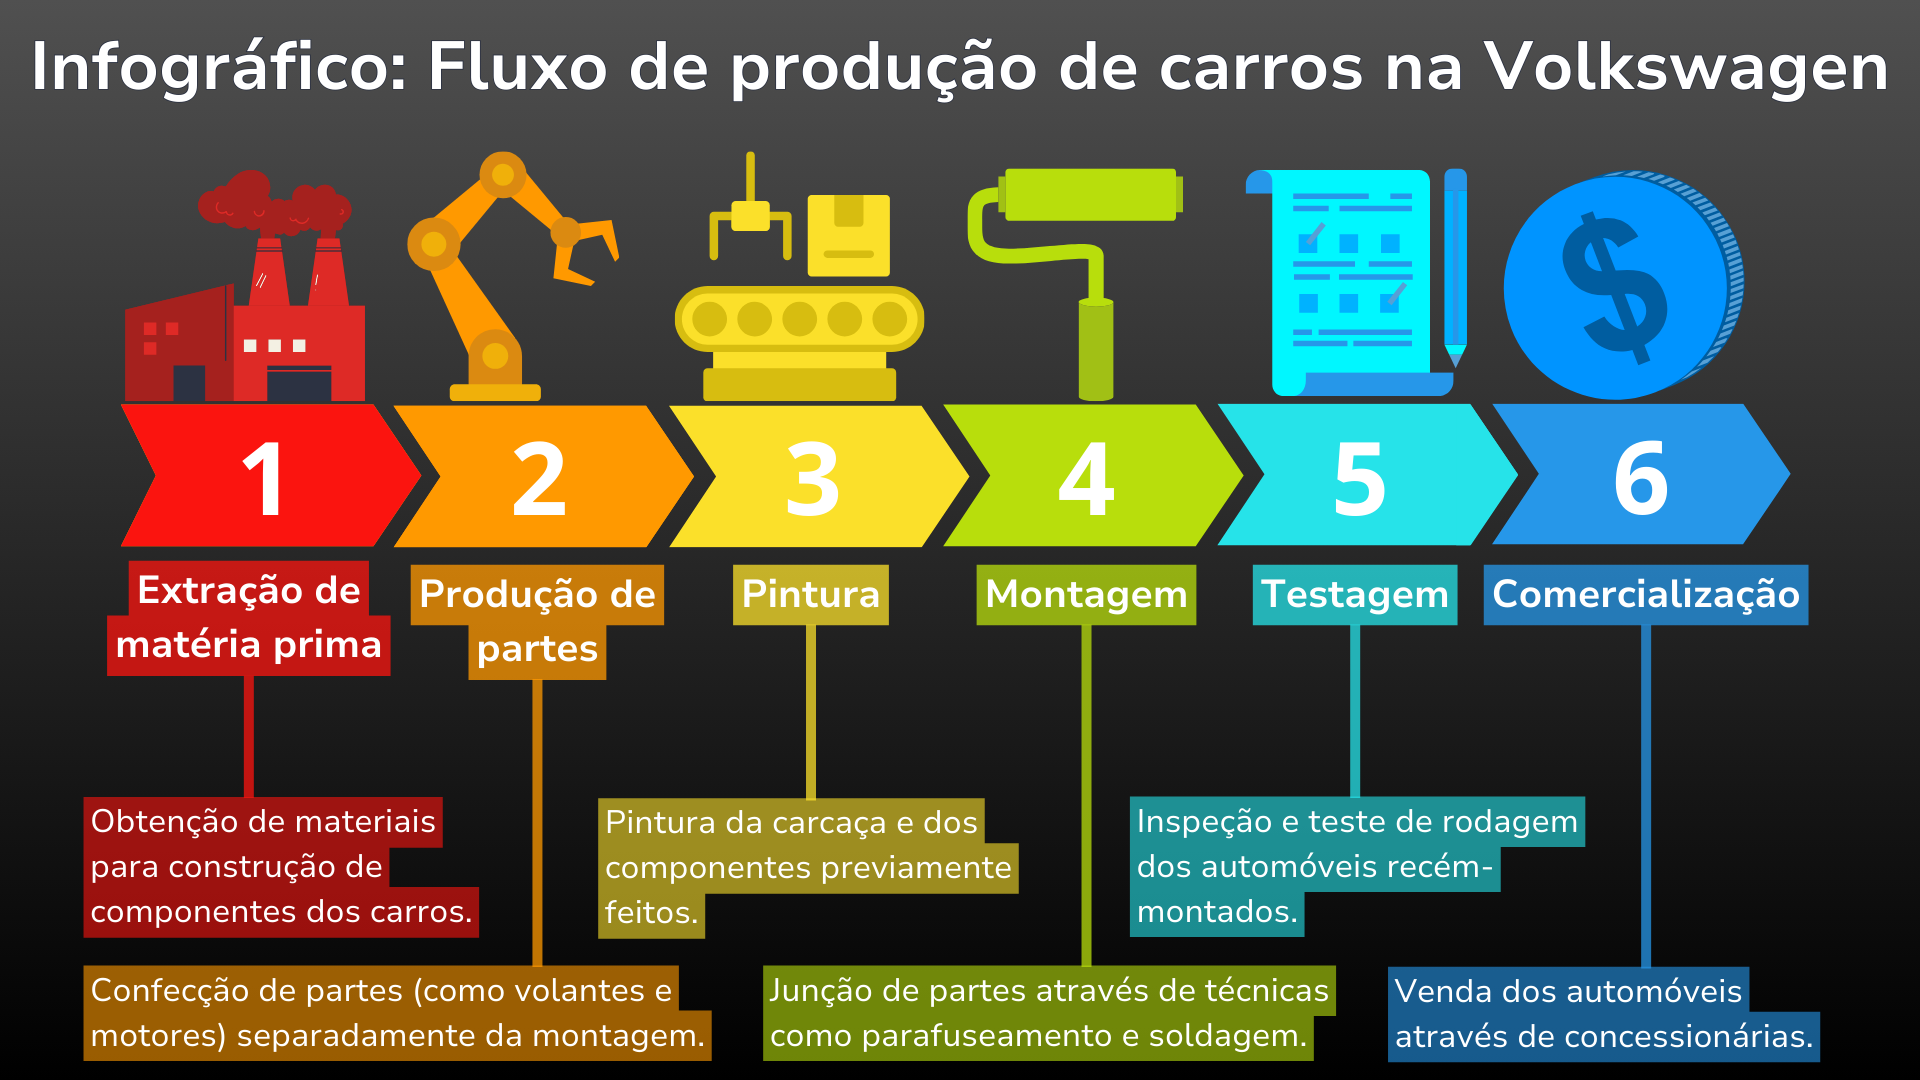
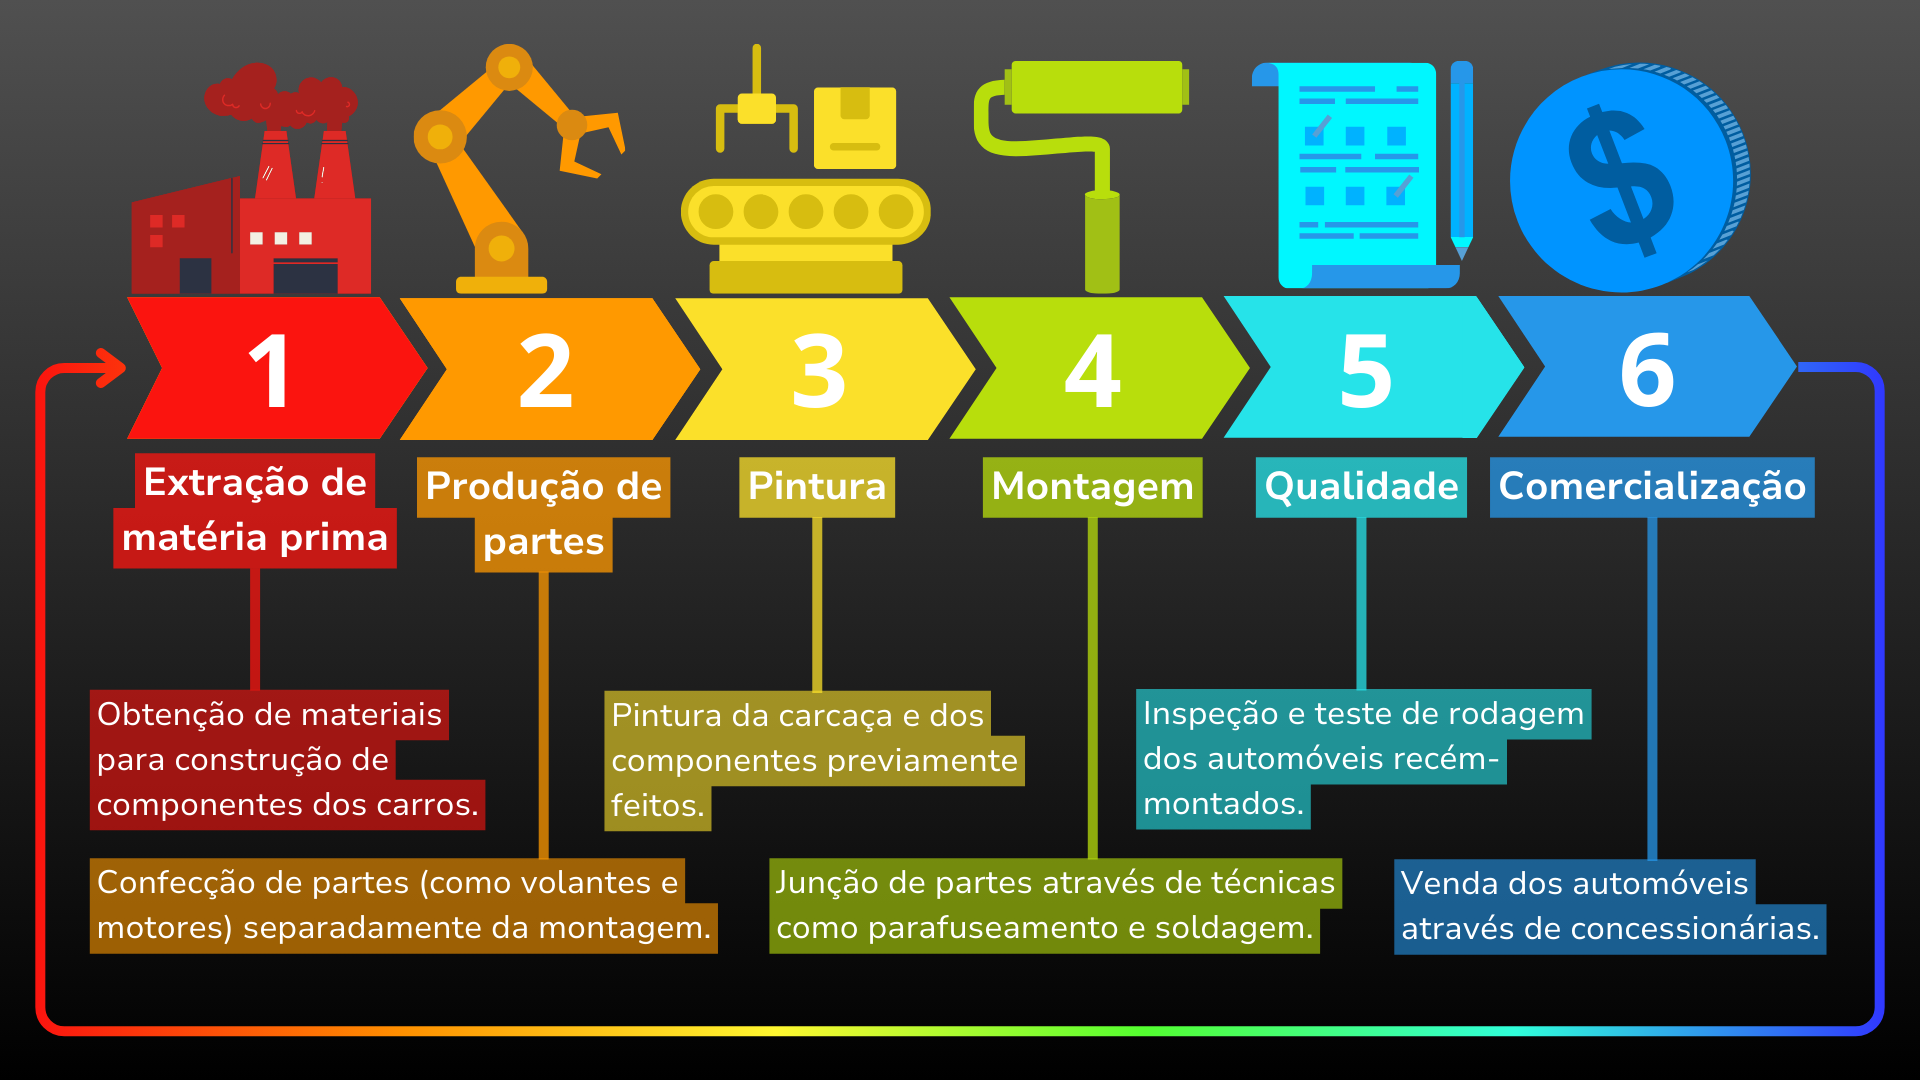
docs: update infographic img

diff --git a/docs/docs/sprints/Sprint 1/Economia-Circular/infografico.md b/docs/docs/sprints/Sprint 1/Economia-Circular/infografico.md
@@ -7,7 +7,7 @@ sidebar_position: 4
 
 &emsp;Para melhor entendimento dos aspectos de economia circular envolvidos no desenvolvimento da solução, o grupo It-Cross elaborou um infográfico que sumariza a cadeia produtiva de veículos da Volkswagen. O infográfico está disponível na figura 1 e conta com explicações detalhadas e relações com o tema de ESG (Environmental, Social, and Governance) logo a seguir.
 
-<p style={{textAlign: 'center'}}>Figura 1 - Persona: Luana Gomes</p>
+<p style={{textAlign: 'center'}}>Figura 1 - Infográfico: fluxo cíclico de produção de carros na Volkswagen</p>
 
 ![Infográfico](../../../../static/img/sprint-1/infografico.png)
 
@@ -26,7 +26,3 @@ sidebar_position: 4
 &emsp;A penúltima etapa do fluxo refere-se à qualidade dos carros. Assim que a fase de montagem é finalizada, ocorre uma inspeção geral sobre o carro, que geralmente é realizada de maneira roteirizada por uma pessoa com experiência na área de qualidade de produtos industriais. Por fim, parte dos carros é submetido a "testes de rodagem", nos quais os veículos são testados em funcionamento prático em pistas isoladas, a fim de verificar questões como peças soltas, frenagem e desempenho do carro em diferentes tipos de piso.
 
 &emsp;Por fim, há a etapa de comercialização, que ocorre com um automóvel somente após todas as demais fases de produção e após a aprovação na etapa de qualidade. Com isso, os veículos são vendidos através de concessionárias para os consumidores finais. É interessante ressaltar que, apesar de ser a etapa final do fluxo de produção, ainda pode existir uma ligação cíclica entre a comercialização e a extração de matéria-prima. Essa ligação se dá após o fim da vida útil de um carro, que geralmente acompanha o processo de desmanche de carros, que separa partes e materiais destes que podem ser reciclados e, de maneira direta ou indireta, podem servir como matéria-prima para produção de novos veículos.
-
----
-
-# Referências
